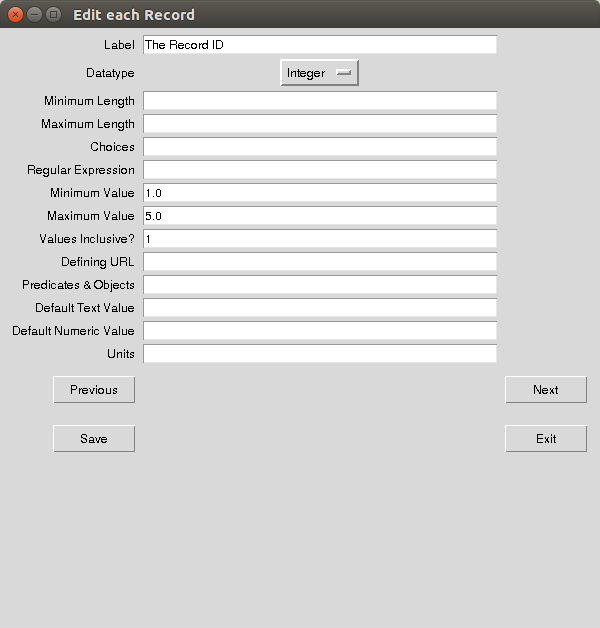
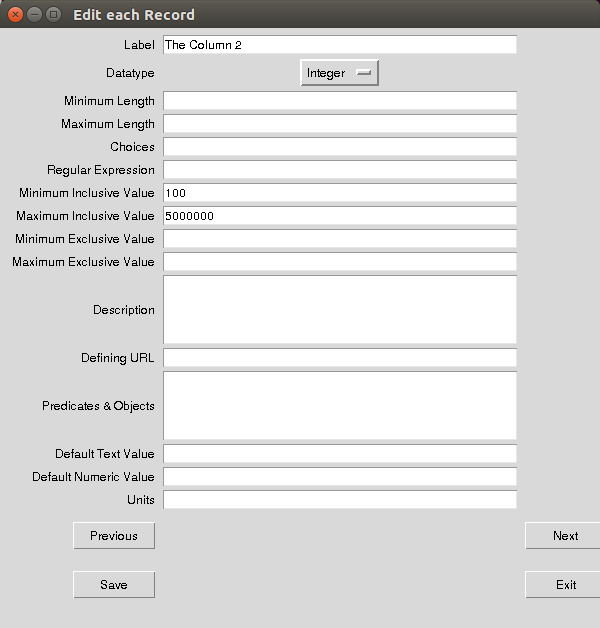
Add min/max exclusive values. Add a Choices column to Demo. Add description to schema s documentation.

diff --git a/docs/searchindex.js b/docs/searchindex.js
@@ -1,1 +1,1 @@
-Search.setIndex({docnames:["configure","develop","future","index","intro","license","pima","start","tutorials"],envversion:51,filenames:["configure.rst","develop.rst","future.rst","index.rst","intro.rst","license.rst","pima.rst","start.rst","tutorials.rst"],objects:{},objnames:{},objtypes:{},terms:{"200px":[],"600px":[],"\u02c8k\u00e4n\u02ccteksto":4,"case":[0,7],"default":[0,4,7],"function":7,"import":[4,7],"new":[2,3,7],"public":[0,1],"true":0,"while":7,Adding:3,But:7,For:[1,7],Not:0,The:[0,3,4,6,7,8],Then:[0,4,7],There:[0,2,4,7],These:[0,2,4,7],Use:[4,7],Using:3,With:7,_imag:[],abbrev:0,abbrevi:[0,7],abil:[2,4,7],about:[2,4,7],abov:[0,4],access:2,accord:[2,4,7],accur:7,activ:[0,2,4,7],actual:7,add:7,addit:[0,3,8],addtion:4,adid:[],adjust:[],admin:0,after:[0,4,7,8],again:7,age:2,agre:5,algorithm:7,align:[],all:[2,3,7],allegrograph:0,allow:[0,7],along:[4,7],alreadi:7,also:[0,4,7],alt:[],altern:7,altlabel:7,alwai:0,anaconda:3,analysi:[2,4,7],analyt:7,analyz:7,analyzelevel:0,ani:[0,2,4,5,7],annot:4,anoth:[],anywher:2,apach:5,appli:[],applic:[0,2,4,5],approach:[2,4,7],appropri:[0,2,7],archiv:[4,7],area:7,aren:7,around:4,artifici:4,assum:7,attempt:7,audienc:3,authent:0,author:7,autom:4,automat:[4,7],avail:[0,7],avoid:4,awai:7,back:2,background:4,backup:0,bad:[],bad_column_nam:7,bad_delim:[],bartoc:7,base:[2,4,7],basex:0,basexcli:5,basi:[5,7],basic:[],becaus:[2,4,7],becom:7,been:7,befor:7,begin:[2,4],being:[2,7],below:[0,4,5,7],benefit:4,best:4,better:7,between:[2,7],big:[2,7],biontolog:[0,7],bit:4,blank:7,blazegraph:0,blue:7,both:7,bottom:[],box:7,bridg:[2,7],brief:4,brows:[],browser:4,browsser:4,bsd:5,build:2,builtin:7,button:7,cach:4,call:4,can:[0,1,2,4,6,7,8],capabl:[4,7],captur:2,care:7,catalog:[4,7],caus:7,center:[],central:7,centric:[2,4],certain:[2,7],certainli:0,chang:[2,4,7],charact:7,choic:7,choos:[0,7],chosen:7,clean:[2,4],click:[],close:[2,7],cmd:[],code:[2,3,7],colon:0,column:7,column_1:7,com:7,combin:7,come:[1,4,7],comma:7,command:7,commandlin:[0,4,7],compani:4,competitor:4,complet:[4,7],complex:2,complianc:5,compliant:7,compon:5,comput:[3,4,7],concept:7,concern:7,conda:4,condit:5,conf:[0,4,7],config:[3,7],configur:[3,4,7],conjunt:4,constrain:7,constraint:7,construct:4,consum:7,contact:[1,2],contain:7,content:3,context:[2,3,4],continu:7,contribut:[1,7],contributor:[],cool:4,copi:[0,3,4,5,6,8],copyright:[3,4,5,7],core:[2,4,7],correct:7,cost:2,couchdb:0,could:7,count:7,cours:7,cover:[0,4,7],creat:[0,4,7],creation:7,creator:[],cross:3,crowd:4,csv:[4,6,7,8],current:[0,2,7],currrent:2,cycl:7,data:[0,2,3,4,5,6,8],databas:[2,4,6,7,8],datacentr:4,datafil:7,dataid:[],datainsight:7,datamodel:7,dataset:[3,7],datatyp:7,date:7,datetim:7,dbname:0,dct:7,decid:2,decim:7,decis:[2,4,7],declar:7,deep:4,def_num_valu:[],def_txt_valu:[],defin:[0,7],definit:7,definition_url:[],delet:7,delim:[0,7],delimit:[0,7],demo2:7,demo2_validation_log:7,demo3:7,demo:[0,3,4,8],demo_info:7,demo_validation_log:7,demo_with_semant:[4,7],demonstr:7,depend:4,depict:7,deriv:7,describ:7,descript:[4,7],descriptioin:7,design:[0,4],desir:7,detail:[3,4,6,7,8],determin:[0,7],develop:[3,7],devour:4,diabet:[3,6,7],dialog:7,dictionari:[6,7,8],didn:7,differ:[0,5,7],dir:4,direct:[2,4],directori:[0,3,6,7,8],discov:4,discoveri:7,discuss:4,displai:4,distribut:[5,7],dmid:[],doc:[],document:[4,7],doe:[2,7],domain:[2,4,7],door:4,down:2,download:4,due:[2,7],dul:[0,7],dynam:7,each:[0,7],easi:[0,4],easier:[],easili:4,eco:7,edit:[0,7],editor:[0,7],effort:[2,7],either:[0,2,4,5],elbor:7,element:7,emerg:4,enabl:4,encourag:0,encyclodpedia:7,engin:[2,4],enhanc:[4,7],ensur:7,enter:7,enterpris:2,entir:7,entri:[0,7],entryid:[],environ:[4,7],erron:7,error:7,esperanto:[3,4],est:4,establish:2,etc:4,evalu:2,even:7,exactli:7,exampl:[0,4,7],example_data:[4,6,7,8],except:5,exclud:2,exe:[],execut:7,exist:[2,4],existdb:0,exit:7,expand:7,expect:[1,7],expert:[4,7],explain:4,exploit:7,explor:7,express:[5,7],extract:[4,7],fact:7,fake:7,fals:0,far:7,favorit:[0,4],few:7,field:[0,4,7],file:[3,5,6,7,8],filemanag:7,filenotfound:[],filesystem:[0,7],filetyp:0,fill:[6,7,8],find:4,fine:7,finish:7,first:[0,3,4],fit:2,fix:[],flag:7,foaf:7,follow:[4,7],footnot:4,formal:7,format:[0,4,7],forward:2,found:[4,6,7,8],foundat:[2,4],four:[4,7],free:[0,7],from:[0,2,4,7],full:[0,2,7],further:7,futur:[0,3,4,7],gain:[4,7],gather:7,gener:[0,1,4,7],get:[3,8],github:1,given:7,glanc:7,going:7,govern:5,graphdb:0,grasp:7,great:0,grootel:5,group:4,grow:7,guess:7,guid:1,guidelin:3,had:[],hand:4,handl:7,happen:[2,7],has:[0,2,7],have:[2,4,7],header:7,height:[],help:[1,7],here:[0,4,7],hiroaki:5,holder:7,host:0,how:[2,4],howev:[0,4,7],http:[0,5,7],imag:7,implement:0,impli:5,improv:[2,4,7],inact:0,inc:[2,3,5,7],includ:[2,5,6,7,8],inclus:7,incomplet:[6,8],incorrect:7,index:3,indian:[3,6,7],individu:5,inform:[2,3,4,6,8],ingest:2,initi:0,input:7,insid:2,insight:[2,3,5,7],instal:[0,3,7],instanc:7,instead:0,instruct:4,insur:[],integ:7,integr:4,intellig:4,interoper:[3,4],introduct:3,invalid:7,involv:2,irvin:[6,8],isdefinedbi:7,issettingfor:7,issu:[2,4,7],item:[0,7],itoh:5,json:[0,7],just:[4,7],kdnugget:7,kind:[2,5],knowledg:[4,7],known:2,kunteksto:[0,2,4,7],label:7,lack:7,languag:[4,5,7],larger:[],last:4,later:4,law:5,lead:2,learn:[4,6,7,8],least:7,length:7,libreoffic:0,licens:[3,4],like:[1,2,4,7],limit:[2,4,5],line:[4,7],link:[0,4,7],linux:[3,7],list:7,littl:4,load:7,local:[0,7],localhost:0,locat:4,lock:2,log:7,look:[2,7],loos:7,lxml:4,mac:3,machin:[2,6,8],macosx:[4,7],mai:[0,2,4,5,6,7,8],make:[0,2,7],manag:[1,2,4],mandatori:7,mani:[0,2,4,7],manifesto:4,manual:7,marc:5,massag:[2,4],match:7,matur:7,max_len:[],max_val:[],maximum:7,mcid:[],mean:7,meaning:7,measur:7,meet:7,menu:4,messag:7,metadata:7,might:7,min_len:[],min_val:[],minimum:7,minut:4,miss:7,mix:7,mode:7,model:[0,2,4,6,7,8],modul:3,monei:2,mongodb:0,more:[2,3,4],most:[0,7],movement:4,much:7,multipl:3,must:[0,7],name:[0,6,7,8],namespac:[0,7],nan:7,navig:[4,7],need:7,next:7,nlt:1,note:[0,7],notic:[4,7],now:[2,4,7],number:[4,7],numer:7,object:7,obtain:[5,7],offer:2,often:[2,7],okai:0,onc:[4,7],one:[0,4,7],onli:[0,2,7],onlin:7,ont:0,ontolog:[0,4,7],ontologydesignpattern:0,open:[0,1,4,7],opensourc:0,oper:[4,7],oppos:[4,7],option:[0,4,7],order:7,org:[0,5,7],organ:[1,7],origin:[2,4,6,8],osx:3,other:[0,2,6,7,8],otherwis:7,our:7,outdir:0,output:[0,4,7],overal:7,overarch:7,overrid:0,overridden:0,owl:[0,4,7],own:0,page:3,pair:7,paradigm:2,park:4,part:4,path:[4,7],pattern:0,pdf:7,per:7,perform:[2,7,8],period:7,permiss:5,pima:[3,6,7],pip:4,pipe:7,pipelin:7,place:[4,7],plan:0,platform:3,pleas:1,png:[],point:7,pointless:7,popular:7,port:0,portion:7,possibl:[2,7],power:4,pre:7,pred_obj_list:[],predic:7,prefer:4,prefil:7,prepar:2,previou:7,privat:1,problem:7,proce:7,process:[0,2,4,7],produc:7,program:4,project:[0,1,7],prompt:[4,7],provid:[4,7],pulldown:7,purl:7,purpleknob:7,purport:7,purpos:3,put:[],pycurl:4,python:4,qualiti:[2,3,4,7],queri:[2,4],quick:4,quickli:4,quot:[],rang:7,rdf:[0,4,7],readi:4,readm:4,realist:7,realiz:7,realworld:7,reason:[],receiv:7,recommend:[],record:[6,7,8],refer:[4,7],referenc:4,regex:[],regular:7,rel:0,reliabl:7,reopen:7,repo:[0,1],repositori:[0,1,6,7,8],repres:7,represent:4,request:7,requir:[0,2,3,5,7],rerun:7,research:4,reserv:3,resolut:[],resourc:7,rest:4,restart:7,restrict:7,result:7,reus:7,reusabl:2,revolut:4,rich:3,richer:7,right:3,robust:7,round:2,rule:2,run:7,s3m:7,s3m_test:0,s3model:[2,4,7],s3model_3_0_0:[4,7],sai:7,same:[3,4],sampl:4,save:[2,7],scenario:7,schema:[4,7],scienc:7,scientist:[2,4],screenshot:7,search:[3,7],section:[0,7],see:[1,4,5,7],select:7,semannt:7,semant:[0,3,4],separ:[0,7],set:[0,4,7],settl:4,setup:0,sever:[4,7],shacl:7,shape:7,share:7,should:[0,7],show:[0,7],shown:[0,4],side:[],simpl:[0,4,7],simpler:7,simplifi:4,simul:7,sioc:7,situtaion:7,sko:7,slightli:7,slow:2,softwar:5,some:[0,2,5,7],soon:[1,4],sophist:7,sourc:[0,1,2,4,6,7,8],space:[0,7],sparql:2,specif:[2,5],spend:2,spot:7,spreadsheet:7,sqlite:[],sqlitebrows:4,squar:2,standard:[2,7],stardog:0,stare:7,start:[3,8],statu:0,step:[3,4],still:1,string:7,structur:[2,7],studi:7,stuff:4,stylesheet:4,subdirectoi:4,subdirectori:[0,4,7],subject:7,sublim:0,suppli:7,support:[0,4,7],sure:7,syntax:7,system:[0,2,4,7],tab:[],tabl:[6,7,8],take:4,target:3,tech:7,technolog:7,tell:[],term:7,termin:4,text:[0,7],thei:[2,7],them:[4,7],thi:[1,2,3,4,5,6,8],thingi:7,those:[4,7],though:7,thousand:7,three:0,through:[4,7],throughout:7,time:[2,4,6,7,8],titl:7,todai:7,tool:[2,4,7],toolbar:[],top:7,toward:7,traction:4,transit:2,translat:[4,7],tripl:7,turn:3,tutori:[0,3,4,6],two:7,txt:4,type:[0,7],typic:0,ujson:4,under:[0,5,7],understand:4,understood:2,underwai:2,unifi:7,uniqu:7,unit:7,unknow:2,unknown:2,unless:5,updat:[3,5],upgrad:4,upon:[],uri:[0,7],url:7,usabl:[4,7],usag:[3,7],use:[0,2,4,5,7],used:[0,2,4,7],useful:[6,7,8],user:0,uses:[0,7],using:[2,4,7],usual:[2,4],util:7,uuid:[4,7],valid:[2,4,7],vals_inclus:[],valu:[0,7],van:5,vari:4,variat:[],variou:[0,7],veri:4,version:[0,3,5,7],via:[4,7],video:7,view:7,virtual:[4,7],virtualenv:4,visual:4,vocabulari:[0,7],volunt:1,wai:[2,4],want:[0,4,7],warn:[],warranti:5,webpag:7,well:[0,2,7],were:7,what:[0,3,7],when:[0,2,4,7],where:[0,2,4,7],wherea:7,which:7,why:3,widget:7,width:[],wikipedia:4,window:[3,7],wing:[],wish:7,without:[2,5,7],won:4,word:[0,2],wordprocess:0,world:[2,4],would:[1,2,7],write:[0,5],written:[0,7],wrong:2,www:[0,5,7],xml:[0,4,7],xmln:7,xmlschema:7,xsd:[4,7],xsi:7,xsl:4,yes:7,yet:[0,7],you:[0,1,4,5,7],your:[0,4,7],zip:[4,7]},titles:["Configuration","Developing Kunteksto","The Future","Kunteksto","Introduction and Installation","License &amp; Usage","&lt;no title&gt;","Getting Started","Tutorials"],titleterms:{"new":4,Adding:7,The:2,Using:7,addit:7,all:4,anaconda:4,audienc:4,code:1,comput:2,config:0,configur:0,copi:7,cross:4,data:7,dataset:8,demo:7,detail:0,develop:1,diabet:8,directori:4,file:[0,4],first:7,futur:2,get:7,guidelin:1,indian:8,indic:3,inform:7,instal:4,interoper:2,introduct:4,kunteksto:[1,3],licens:5,linux:4,mac:4,more:7,multipl:7,osx:4,pima:8,platform:4,purpos:4,qualiti:1,requir:4,rich:7,same:7,semant:[2,7],start:7,step:7,tabl:3,target:4,thi:7,tutori:[7,8],updat:4,usag:5,version:4,what:[2,4],why:7,window:4}})
+Search.setIndex({docnames:["configure","develop","future","index","intro","license","pima","start","tutorials"],envversion:51,filenames:["configure.rst","develop.rst","future.rst","index.rst","intro.rst","license.rst","pima.rst","start.rst","tutorials.rst"],objects:{},objnames:{},objtypes:{},terms:{"200px":[],"600px":[],"\u02c8k\u00e4n\u02ccteksto":4,"case":[0,7],"default":[0,4,7],"function":7,"import":[4,7],"new":[2,3,7],"public":[0,1],"true":0,"while":7,Adding:3,But:7,For:[1,7],Not:0,The:[0,3,4,6,7,8],Then:[0,4,7],There:[0,2,4,7],These:[0,2,4,7],Use:[4,7],Using:3,With:7,_imag:[],abbrev:0,abbrevi:[0,7],abil:[2,4,7],about:[2,4,7],abov:[0,4],access:2,accord:[2,4,7],accur:7,activ:[0,2,4,7],actual:7,add:7,addit:[0,3,8],addtion:4,adid:[],adjust:[],admin:0,after:[0,4,7,8],again:7,age:2,agre:5,algorithm:7,align:[],all:[2,3,7],allegrograph:0,allow:[0,7],along:[4,7],alreadi:7,also:[0,4,7],alt:[],altern:7,altlabel:7,alwai:0,anaconda:3,analysi:[2,4,7],analyt:7,analyz:7,analyzelevel:0,ani:[0,2,4,5,7],annot:4,anoth:[],anywher:2,apach:5,appli:[],applic:[0,2,4,5],approach:[2,4,7],appropri:[0,2,7],archiv:[4,7],area:7,aren:7,around:4,artifici:4,assum:7,attempt:7,audienc:3,authent:0,author:7,autom:4,automat:[4,7],avail:[0,7],avoid:4,awai:7,back:2,background:4,backup:0,bad:[],bad_column_nam:7,bad_delim:[],bartoc:7,base:[2,4,7],basex:0,basexcli:5,basi:[5,7],basic:[],becaus:[2,4,7],becom:7,been:7,befor:7,begin:[2,4],being:[2,7],below:[0,4,5,7],benefit:4,best:4,better:7,between:[2,7],big:[2,7],biontolog:[0,7],bit:4,blank:7,blazegraph:0,blue:7,both:7,bottom:[],box:7,bridg:[2,7],brief:4,brows:[],browser:4,browsser:4,bsd:5,build:2,builtin:7,button:7,cach:4,call:4,can:[0,1,2,4,6,7,8],capabl:[4,7],captur:2,care:7,catalog:[4,7],caus:7,center:[],central:7,centric:[2,4],certain:[2,7],certainli:0,chang:[2,4,7],charact:7,choic:7,choos:[0,7],chosen:7,clean:[2,4],click:[],close:[2,7],cmd:[],code:[2,3,7],colon:0,column:7,column_1:7,com:7,combin:7,come:[1,4,7],comma:7,command:7,commandlin:[0,4,7],compani:4,competitor:4,complet:[4,7],complex:2,complianc:5,compliant:7,compon:5,comput:[3,4,7],concept:7,concern:7,conda:4,condit:5,conf:[0,4,7],config:[3,7],configur:[3,4,7],conjunt:4,constrain:7,constraint:7,construct:4,consum:7,contact:[1,2],contain:7,content:3,context:[2,3,4],continu:7,contribut:[1,7],contributor:[],cool:4,copi:[0,3,4,5,6,8],copyright:[3,4,5,7],core:[2,4,7],correct:7,cost:2,couchdb:0,could:7,count:7,cours:7,cover:[0,4,7],creat:[0,4,7],creation:7,creator:[],cross:3,crowd:4,csv:[4,6,7,8],current:[0,2,7],currrent:2,cycl:7,data:[0,2,3,4,5,6,8],databas:[2,4,6,7,8],datacentr:4,datafil:7,dataid:[],datainsight:7,datamodel:7,dataset:[3,7],datatyp:7,date:7,datetim:7,dbname:0,dct:7,decid:2,decim:7,decis:[2,4,7],declar:7,deep:4,def_num_valu:[],def_txt_valu:[],defin:[0,7],definit:7,definition_url:[],delet:7,delim:[0,7],delimit:[0,7],demo2:7,demo2_validation_log:7,demo3:7,demo:[0,3,4,8],demo_info:7,demo_validation_log:7,demo_with_semant:[4,7],demonstr:7,depend:4,depict:7,deriv:7,describ:7,descript:[4,7],descriptioin:7,design:[0,4],desir:7,detail:[3,4,6,7,8],determin:[0,7],develop:[3,7],devour:4,diabet:[3,6,7],dialog:7,dictionari:[6,7,8],didn:7,differ:[0,5,7],dir:4,direct:[2,4],directori:[0,3,6,7,8],discov:4,discoveri:7,discuss:4,displai:4,distribut:[5,7],dmid:[],doc:[],document:[4,7],doe:[2,7],domain:[2,4,7],door:4,down:2,download:4,due:[2,7],dul:[0,7],dynam:7,each:[0,7],easi:[0,4],easier:[],easili:4,eco:7,edit:[0,7],editor:[0,7],effort:[2,7],either:[0,2,4,5],elbor:7,element:7,emerg:4,enabl:4,encourag:0,encyclodpedia:7,engin:[2,4],enhanc:[4,7],ensur:7,enter:7,enterpris:2,entir:7,entri:[0,7],entryid:[],environ:[4,7],erron:7,error:7,esperanto:[3,4],est:4,establish:2,etc:4,evalu:2,even:7,exactli:7,exampl:[0,4,7],example_data:[4,6,7,8],except:5,exclud:2,exclus:7,exe:[],execut:7,exist:[2,4],existdb:0,exit:7,expand:7,expect:[1,7],expert:[4,7],explain:4,exploit:7,explor:7,express:[5,7],extract:[4,7],fact:7,fake:7,fals:0,far:7,favorit:[0,4],few:7,field:[0,4,7],file:[3,5,6,7,8],filemanag:7,filenotfound:[],filesystem:[0,7],filetyp:0,fill:[6,7,8],find:4,fine:7,finish:7,first:[0,3,4],fit:2,fix:[],flag:7,foaf:7,follow:[4,7],footnot:4,formal:7,format:[0,4,7],forward:2,found:[4,6,7,8],foundat:[2,4],four:[4,7],free:[0,7],from:[0,2,4,7],full:[0,2,7],further:7,futur:[0,3,4,7],gain:[4,7],gather:7,gener:[0,1,4,7],get:[3,8],github:1,given:7,glanc:7,going:7,govern:5,graphdb:0,grasp:7,great:0,grootel:5,group:4,grow:7,guess:7,guid:1,guidelin:3,had:[],hand:4,handl:7,happen:[2,7],has:[0,2,7],have:[2,4,7],header:7,height:[],help:[1,7],here:[0,4,7],hiroaki:5,holder:7,host:0,how:[2,4],howev:[0,4,7],http:[0,5,7],human:7,ignor:7,illog:7,imag:7,implement:0,impli:5,improv:[2,4,7],inact:0,inc:[2,3,5,7],includ:[2,5,6,7,8],inclus:7,incomplet:[6,8],incorrect:7,index:3,indian:[3,6,7],individu:5,inform:[2,3,4,6,8],ingest:2,initi:0,input:7,insid:2,insight:[2,3,5,7],instal:[0,3,7],instanc:7,instead:0,instruct:4,insur:[],integ:7,integr:4,intellig:4,interoper:[3,4],introduct:3,invalid:7,involv:2,irvin:[6,8],isdefinedbi:7,issettingfor:7,issu:[2,4,7],item:[0,7],itoh:5,json:[0,7],just:[4,7],kdnugget:7,kind:[2,5],knowledg:[4,7],known:2,kunteksto:[0,2,4,7],label:7,lack:7,languag:[4,5,7],larger:[],last:4,later:4,law:5,lead:2,learn:[4,6,7,8],least:7,length:7,libreoffic:0,licens:[3,4],like:[1,2,4,7],limit:[2,4,5],line:[4,7],link:[0,4,7],linux:[3,7],list:7,littl:4,load:7,local:[0,7],localhost:0,locat:4,lock:2,log:7,look:[2,7],loos:7,lxml:4,mac:3,machin:[2,6,8],macosx:[4,7],mai:[0,2,4,5,6,7,8],make:[0,2,7],manag:[1,2,4],mandatori:7,mani:[0,2,4,7],manifesto:4,manner:7,manual:7,marc:5,massag:[2,4],match:7,matur:7,max:7,max_len:[],max_val:[],maximum:7,mcid:[],mean:7,meaning:7,measur:7,meet:7,menu:4,messag:7,metadata:7,might:7,min:7,min_len:[],min_val:[],minimum:7,minut:4,miss:7,mix:7,mode:7,model:[0,2,4,6,7,8],modul:3,monei:2,mongodb:0,more:[2,3,4],most:[0,7],movement:4,much:7,multipl:3,must:[0,7],name:[0,6,7,8],namespac:[0,7],nan:7,navig:[4,7],need:7,next:7,nlt:1,note:[0,7],notic:[4,7],now:[2,4,7],number:[4,7],numer:7,object:7,obtain:[5,7],offer:2,often:[2,7],okai:0,onc:[4,7],one:[0,4,7],onli:[0,2,7],onlin:7,ont:0,ontolog:[0,4,7],ontologydesignpattern:0,open:[0,1,4,7],opensourc:0,oper:[4,7],oppos:[4,7],option:[0,4,7],order:7,org:[0,5,7],organ:[1,7],origin:[2,4,6,8],osx:3,other:[0,2,6,7,8],otherwis:7,our:7,outdir:0,output:[0,4,7],overal:7,overarch:7,overrid:0,overridden:0,owl:[0,4,7],own:0,page:3,pair:7,paradigm:2,park:4,part:4,path:[4,7],pattern:0,pdf:7,per:7,perform:[2,7,8],period:7,permiss:5,pima:[3,6,7],pip:4,pipe:7,pipelin:7,place:[4,7],plan:0,platform:3,pleas:1,png:[],point:7,pointless:7,popular:7,port:0,portion:7,possibl:[2,7],power:4,pre:7,pred_obj_list:[],predic:7,prefer:4,prefil:7,prepar:2,previou:7,privat:1,problem:7,proce:7,process:[0,2,4,7],produc:7,program:4,project:[0,1,7],prompt:[4,7],provid:[4,7],pulldown:7,purl:7,purpleknob:7,purport:7,purpos:3,put:[],pycurl:4,python:4,qualiti:[2,3,4,7],queri:[2,4],quick:4,quickli:4,quot:[],rang:[],rdf:[0,4,7],readabl:7,readi:4,readm:4,realist:7,realiz:7,realworld:7,reason:[],receiv:7,recommend:[],record:[6,7,8],refer:[4,7],referenc:4,regex:[],regular:7,rel:0,reliabl:7,reopen:7,repo:[0,1],repositori:[0,1,6,7,8],repres:7,represent:4,request:7,requir:[0,2,3,5,7],rerun:7,research:4,reserv:3,resolut:[],resourc:7,rest:4,restart:7,restrict:7,result:7,reus:7,reusabl:2,revolut:4,rich:3,richer:7,right:3,robust:7,round:2,rule:2,run:7,s3m:7,s3m_test:0,s3model:[2,4,7],s3model_3_0_0:[4,7],sai:7,same:[3,4],sampl:4,save:[2,7],scenario:7,schema:[4,7],scienc:7,scientist:[2,4],screenshot:7,search:[3,7],section:[0,7],see:[1,4,5,7],select:7,semannt:7,semant:[0,3,4],separ:[0,7],set:[0,4,7],settl:4,setup:0,sever:[4,7],shacl:7,shape:7,share:7,should:[0,7],show:[0,7],shown:[0,4],side:[],simpl:[0,4,7],simpler:7,simplifi:4,simul:7,sioc:7,situtaion:7,sko:7,slightli:7,slow:2,softwar:5,some:[0,2,5,7],soon:[1,4],sophist:7,sourc:[0,1,2,4,6,7,8],space:[0,7],sparql:2,specif:[2,5],spend:2,spot:7,spreadsheet:7,sqlite:[],sqlitebrows:4,squar:2,standard:[2,7],stardog:0,stare:7,start:[3,8],statu:0,step:[3,4],still:1,string:7,structur:[2,7],studi:7,stuff:4,stylesheet:4,subdirectoi:4,subdirectori:[0,4,7],subject:7,sublim:0,suppli:7,support:[0,4,7],sure:7,syntax:7,system:[0,2,4,7],tab:[],tabl:[6,7,8],take:[4,7],target:3,tech:7,technolog:7,tell:[],term:7,termin:4,text:[0,7],textual:7,thei:[2,7],them:[4,7],thi:[1,2,3,4,5,6,8],thingi:7,those:[4,7],though:7,thousand:7,three:0,through:[4,7],throughout:7,time:[2,4,6,7,8],titl:7,todai:7,tool:[2,4,7],toolbar:[],top:7,toward:7,traction:4,transit:2,translat:[4,7],tripl:7,turn:3,tutori:[0,3,4,6],two:7,txt:4,type:[0,7],typic:0,ujson:4,under:[0,5,7],understand:4,understood:2,underwai:2,unifi:7,uniqu:7,unit:7,unknow:2,unknown:2,unless:5,updat:[3,5],upgrad:4,upon:[],uri:[0,7],url:7,usabl:[4,7],usag:[3,7],use:[0,2,4,5,7],used:[0,2,4,7],useful:[6,7,8],user:0,uses:[0,7],using:[2,4,7],usual:[2,4],util:7,uuid:[4,7],valid:[2,4,7],vals_inclus:[],valu:[0,7],van:5,vari:4,variat:[],variou:[0,7],veri:4,version:[0,3,5,7],via:[4,7],video:7,view:7,virtual:[4,7],virtualenv:4,visual:4,vocabulari:[0,7],volunt:1,wai:[2,4],want:[0,4,7],warn:[],warranti:5,webpag:7,well:[0,2,7],were:7,what:[0,3,7],when:[0,2,4,7],where:[0,2,4,7],wherea:7,which:7,why:3,widget:7,width:[],wikipedia:4,window:[3,7],wing:[],wish:7,without:[2,5,7],won:4,word:[0,2],wordprocess:0,world:[2,4],would:[1,2,7],write:[0,5],written:[0,7],wrong:2,www:[0,5,7],xml:[0,4,7],xmln:7,xmlschema:7,xsd:[4,7],xsi:7,xsl:4,yes:[],yet:[0,7],you:[0,1,4,5,7],your:[0,4,7],zip:[4,7]},titles:["Configuration","Developing Kunteksto","The Future","Kunteksto","Introduction and Installation","License &amp; Usage","&lt;no title&gt;","Getting Started","Tutorials"],titleterms:{"new":4,Adding:7,The:2,Using:7,addit:7,all:4,anaconda:4,audienc:4,code:1,comput:2,config:0,configur:0,copi:7,cross:4,data:7,dataset:8,demo:7,detail:0,develop:1,diabet:8,directori:4,file:[0,4],first:7,futur:2,get:7,guidelin:1,indian:8,indic:3,inform:7,instal:4,interoper:2,introduct:4,kunteksto:[1,3],licens:5,linux:4,mac:4,more:7,multipl:7,osx:4,pima:8,platform:4,purpos:4,qualiti:1,requir:4,rich:7,same:7,semant:[2,7],start:7,step:7,tabl:3,target:4,thi:7,tutori:[7,8],updat:4,usag:5,version:4,what:[2,4],why:7,window:4}})

diff --git a/docs/start.html b/docs/start.html
@@ -296,15 +296,20 @@ You can see all of the Kunteksto commandline options using the &#8211;help flag.
 <blockquote>
 <div><div class="admonition warning">
 <p class="first admonition-title">Warning</p>
-<p class="last">The decimal separator throughout Kunteksto is a period, do not use a comma. Do not use thousands separators.</p>
+<p class="last">The decimal separator throughout Kunteksto is a period, do not use a comma. Do not use thousands separators.
+Also, if you mix min/max inclusive or exclusive in an illogical manner, they system will take the inclusive value and ignore the exclusive value.</p>
 </div>
 </div></blockquote>
 </li>
-<li><p class="first"><em>Minimum Value</em> enter the minimum value restriction for <strong>Integer or Decimal</strong> columns.</p>
+<li><p class="first"><em>Minimum Inclusive Value</em> enter the minimum inclusive value restriction for <strong>Integer or Decimal</strong> columns.</p>
 </li>
-<li><p class="first"><em>Maximum Value</em> enter the maximum value restriction for <strong>Integer or Decimal</strong> columns.</p>
+<li><p class="first"><em>Maximum Inclusive Value</em> enter the maximum inclusive value restriction for <strong>Integer or Decimal</strong> columns.</p>
 </li>
-<li><p class="first"><em>Values Inclusive?</em> for <strong>Integer or Decimal</strong> columns, are the minimum and maximum values inclusive in the valid values range. Enter a &#8216;1&#8217; for yes or a &#8216;0&#8217; for no.</p>
+<li><p class="first"><em>Minimum Exclusive Value</em> enter the minimum exclusive value restriction for <strong>Integer or Decimal</strong> columns.</p>
+</li>
+<li><p class="first"><em>Maximum Exclusive Value</em> enter the maximum exclusive value restriction for <strong>Integer or Decimal</strong> columns.</p>
+</li>
+<li><p class="first"><em>Description</em> for all columns enter a textual description that might be used for human readable documentation.</p>
 </li>
 <li><p class="first"><em>Defining URL</em> enter a URL (or at least a URI) to a vocabulary or ontology or a webpage that describes or defines the meaning of the data in this column.</p>
 </li>
@@ -461,7 +466,7 @@ Some references to get you started:</p>
   <div role="contentinfo">
     <p>
         &copy; Copyright 2017, Data Insights, Inc..
-      Last updated on 2017-10-02 20:04.
+      Last updated on 2017-10-03 09:16.
 
     </p>
   </div> 

diff --git a/docs/genindex.html b/docs/genindex.html
@@ -184,7 +184,7 @@
   <div role="contentinfo">
     <p>
         &copy; Copyright 2017, Data Insights, Inc..
-      Last updated on 2017-10-02 20:04.
+      Last updated on 2017-10-03 09:16.
 
     </p>
   </div> 

diff --git a/docs/index.html b/docs/index.html
@@ -259,7 +259,7 @@
   <div role="contentinfo">
     <p>
         &copy; Copyright 2017, Data Insights, Inc..
-      Last updated on 2017-10-02 20:04.
+      Last updated on 2017-10-03 09:16.
 
     </p>
   </div> 

diff --git a/docs/search.html b/docs/search.html
@@ -187,7 +187,7 @@
   <div role="contentinfo">
     <p>
         &copy; Copyright 2017, Data Insights, Inc..
-      Last updated on 2017-10-02 20:04.
+      Last updated on 2017-10-03 09:16.
 
     </p>
   </div> 

diff --git a/kunteksto/generate.py b/kunteksto/generate.py
@@ -123,9 +123,12 @@ def xdcount_rdf(data):
     
     if data[7]:
         rdfStr += padding.rjust(indent + 10) +'<sh:minInclusive rdf:datatype="http://www.w3.org/2001/XMLSchema#integer">' + data[7].strip() + '</sh:minInclusive>\n'
+    elif data[17]:
+        rdfStr += padding.rjust(indent + 10) +'<sh:minExclusive rdf:datatype="http://www.w3.org/2001/XMLSchema#integer">' + data[17].strip() + '</sh:minExclusive>\n'
     if data[8]:
         rdfStr += padding.rjust(indent + 10) +'<sh:maxInclusive rdf:datatype="http://www.w3.org/2001/XMLSchema#integer">' + data[8].strip() + '</sh:maxInclusive>\n'    
-    
+    elif data[18]:
+        rdfStr += padding.rjust(indent + 10) +'<sh:maxExclusive rdf:datatype="http://www.w3.org/2001/XMLSchema#integer">' + data[18].strip() + '</sh:maxExclusive>\n'    
     rdfStr += padding.rjust(indent + 8) +'</rdf:Description>\n'
     rdfStr += padding.rjust(indent + 6) +'</sh:property>\n'
     
@@ -160,7 +163,7 @@ def xdcount(data):
     xdstr += padding.rjust(indent) + '<xs:complexType name="mc-' + mcID + '">\n'
     xdstr += padding.rjust(indent + 2) + '<xs:annotation>\n'
     xdstr += padding.rjust(indent + 4) + '<xs:documentation>\n'
-    xdstr += padding.rjust(indent + 6) + 'This is the Count model component used to model integers.\n'
+    xdstr += padding.rjust(indent + 6) + data[9].strip() + '\n'
     xdstr += padding.rjust(indent + 4) + '</xs:documentation>\n'
     xdstr += padding.rjust(indent + 4) + '<xs:appinfo>\n'   
     # add the RDF
@@ -179,7 +182,7 @@ def xdcount(data):
     xdstr += padding.rjust(indent + 8) + '<xs:element maxOccurs="1" minOccurs="0" name="magnitude-status" type="s3m:MagnitudeStatus"/>\n'
     xdstr += padding.rjust(indent + 8) + '<xs:element maxOccurs="1" minOccurs="1" name="error"  type="xs:int" default="0"/>\n'
     xdstr += padding.rjust(indent + 8) + '<xs:element maxOccurs="1" minOccurs="1" name="accuracy" type="xs:int" default="0"/>\n'
-    if not data[7] and not data[8] and not data[13]:
+    if not data[7] and not data[8] and not data[17] and not data [18] and not data[13]:
         xdstr += padding.rjust(indent + 8) + '<xs:element maxOccurs="1" minOccurs="1"  name="xdcount-value" type="xs:int"/>\n'
     if data[13]:
         xdstr += padding.rjust(indent + 8) +  '<xs:element maxOccurs="1" minOccurs="1"  name="xdcount-value" type="xs:int" default="' + str(int(data[13])) + '"/>\n'       
@@ -189,8 +192,14 @@ def xdcount(data):
         xdstr += padding.rjust(indent + 10) + '<xs:restriction base="xs:int">\n'
         if data[7]:
             xdstr += padding.rjust(indent + 12) + '<xs:minInclusive value="' + str(int(data[7])) + '"/>\n'
+        elif data[17]:
+            xdstr += padding.rjust(indent + 12) + '<xs:minExclusive value="' + str(int(data[17])) + '"/>\n'
+            
         if data[8]:
             xdstr += padding.rjust(indent + 12) + '<xs:maxInclusive value="' + str(int(data[8])) + '"/>\n'
+        elif data[18]:
+            xdstr += padding.rjust(indent + 12) + '<xs:maxExclusive value="' + str(int(data[18])) + '"/>\n'
+            
         xdstr += padding.rjust(indent + 10) + '</xs:restriction>\n'
         xdstr += padding.rjust(indent + 10) + '</xs:simpleType>\n'
         xdstr += padding.rjust(indent + 8) + '</xs:element>\n'
@@ -231,9 +240,14 @@ def xdquantity_rdf(data):
     rdfStr += padding.rjust(indent + 10) +'<sh:minCount rdf:datatype="http://www.w3.org/2001/XMLSchema#integer">1</sh:minCount>\n'
     
     if data[7]:
-        rdfStr += padding.rjust(indent + 10) +'<sh:minInclusive rdf:datatype="http://www.w3.org/2001/XMLSchema#integer">' + data[7].strip() + '</sh:minInclusive>\n'
+        rdfStr += padding.rjust(indent + 10) +'<sh:minInclusive rdf:datatype="http://www.w3.org/2001/XMLSchema#decimal">' + data[7].strip() + '</sh:minInclusive>\n'
+    elif data[17]:
+        rdfStr += padding.rjust(indent + 10) +'<sh:minExclusive rdf:datatype="http://www.w3.org/2001/XMLSchema#decimal">' + data[17].strip() + '</sh:minExclusive>\n'
+        
     if data[8]:
-        rdfStr += padding.rjust(indent + 10) +'<sh:maxInclusive rdf:datatype="http://www.w3.org/2001/XMLSchema#integer">' + data[8].strip() + '</sh:maxInclusive>\n'    
+        rdfStr += padding.rjust(indent + 10) +'<sh:maxInclusive rdf:datatype="http://www.w3.org/2001/XMLSchema#decimal">' + data[8].strip() + '</sh:maxInclusive>\n'    
+    elif data[18]:
+        rdfStr += padding.rjust(indent + 10) +'<sh:maxExclusive rdf:datatype="http://www.w3.org/2001/XMLSchema#decimal">' + data[18].strip() + '</sh:maxExclusive>\n'    
    
     rdfStr += padding.rjust(indent + 8) +'</rdf:Description>\n'
     rdfStr += padding.rjust(indent + 6) +'</sh:property>\n'
@@ -269,7 +283,7 @@ def xdquantity(data):
     xdstr += padding.rjust(indent) + '<xs:complexType name="mc-' + mcID + '">\n'
     xdstr += padding.rjust(indent + 2) + '<xs:annotation>\n'
     xdstr += padding.rjust(indent + 4) + '<xs:documentation>\n'
-    xdstr += padding.rjust(indent + 6) + 'This is the Quantity model component used to model decimals.\n'
+    xdstr += padding.rjust(indent + 6) + data[9].strip() + '\n'
     xdstr += padding.rjust(indent + 4) + '</xs:documentation>\n'
     xdstr += padding.rjust(indent + 4) + '<xs:appinfo>\n'
     # add the RDF
@@ -288,7 +302,7 @@ def xdquantity(data):
     xdstr += padding.rjust(indent + 8) + '<xs:element maxOccurs="1" minOccurs="0" name="magnitude-status" type="s3m:MagnitudeStatus"/>\n'
     xdstr += padding.rjust(indent + 8) + '<xs:element maxOccurs="1" minOccurs="1" name="error"  type="xs:int" default="0"/>\n'
     xdstr += padding.rjust(indent + 8) + '<xs:element maxOccurs="1" minOccurs="1" name="accuracy" type="xs:int" default="0"/>\n'
-    if not data[7] and not data[8] and not data[13]:
+    if not data[7] and not data[8] and not data[17] and not data[18] and not data[13]:
         xdstr += padding.rjust(indent + 8) + '<xs:element maxOccurs="1" minOccurs="1"  name="xdquantity-value" type="xs:decimal"/>\n'
     if data[13]:
         xdstr += padding.rjust(indent + 8) + '<xs:element maxOccurs="1" minOccurs="1"  name="xdquantity-value" type="xs:decimal" default="' + data[13].strip() + '"/>\n'
@@ -298,8 +312,12 @@ def xdquantity(data):
         xdstr += padding.rjust(indent + 10) + '<xs:restriction base="xs:decimal">\n'
         if data[7]:
             xdstr += padding.rjust(indent + 12) + '<xs:minInclusive value="' + data[7].strip() + '"/>\n'
+        elif data[17]:
+            xdstr += padding.rjust(indent + 12) + '<xs:minExclusive value="' + data[17].strip() + '"/>\n'
         if data[8]:
             xdstr += padding.rjust(indent + 12) + '<xs:maxInclusive value="' + data[8].strip() + '"/>\n'
+        elif data[18]:
+            xdstr += padding.rjust(indent + 12) + '<xs:maxExclusive value="' + data[18].strip() + '"/>\n'
                 
         xdstr += padding.rjust(indent + 10) + '</xs:restriction>\n'
         xdstr += padding.rjust(indent + 10) + '</xs:simpleType>\n'
@@ -388,7 +406,7 @@ def xdstring(data):
     xdstr += padding.rjust(indent) + '<xs:complexType name="mc-' + mcID + '">\n'
     xdstr += padding.rjust(indent + 2) + '<xs:annotation>\n'
     xdstr += padding.rjust(indent + 4) + '<xs:documentation>\n'
-    xdstr += padding.rjust(indent + 6) + 'This is the String model component used to model text.\n'
+    xdstr += padding.rjust(indent + 6) + data[9].strip() + '\n'
     xdstr += padding.rjust(indent + 4) + '</xs:documentation>\n'
     xdstr += padding.rjust(indent + 4) + '<xs:appinfo>\n'
 
@@ -510,7 +528,7 @@ def xdtemporal(data):
     xdstr += padding.rjust(indent) + '<xs:complexType name="mc-' + mcID + '">\n'
     xdstr += padding.rjust(indent + 2) + '<xs:annotation>\n'
     xdstr += padding.rjust(indent + 4) + '<xs:documentation>\n'
-    xdstr += padding.rjust(indent + 6) + 'This is the Temporal model component used to model dates, times or datetimes.\n'
+    xdstr += padding.rjust(indent + 6) + data[9].strip() + '\n'
     xdstr += padding.rjust(indent + 4) + '</xs:documentation>\n'
     
     xdstr += padding.rjust(indent + 4) + '<xs:appinfo>\n'
@@ -568,7 +586,7 @@ def units(mcID, data):
     xdstr = padding.rjust(indent) + '<xs:complexType name="mc-' + mcID + '">\n'
     xdstr += padding.rjust(indent + 2) + '<xs:annotation>\n'
     xdstr += padding.rjust(indent + 4) + '<xs:documentation>\n'
-    xdstr += padding.rjust(indent + 6) + 'This is the String model component used to define Units values for Counts and Quantities.\n'
+    xdstr += padding.rjust(indent + 6) + 'Unit constraint for: ' + data[9].strip() + '\n'
     xdstr += padding.rjust(indent + 4) + '</xs:documentation>\n'
     xdstr += padding.rjust(indent + 4) + '<xs:appinfo>\n'
     xdstr += padding.rjust(indent + 6) + '<rdfs:Class rdf:about="mc-' + mcID + '">\n'

diff --git a/kunteksto/recordedit.py b/kunteksto/recordedit.py
@@ -87,6 +87,8 @@ class EntryWindow(tk.Frame):
         self.def_txt_value = tk.StringVar(value=self.records[self.recndx][12])
         self.def_num_value = tk.StringVar(value=self.validnum(self.records[self.recndx][13]))
         self.units = tk.StringVar(value=self.records[self.recndx][14])
+        self.min_exc_val = tk.StringVar(value=self.validnum(self.records[self.recndx][17]))
+        self.max_exc_val = tk.StringVar(value=self.validnum(self.records[self.recndx][18]))
 
         # Add a label and entry box for each column in table.
         
@@ -115,27 +117,33 @@ class EntryWindow(tk.Frame):
         tk.Label(self, text='Maximum Inclusive Value').grid(row=7, column=0, pady=1, sticky=E)
         self.max_inc_val_entry = tk.Entry(self, textvariable=self.max_inc_val, width=50).grid(row=7, column=1, pady=1, padx=5)
         
-        tk.Label(self, text='Description').grid(row=8, column=0, pady=1, sticky=E)
+        tk.Label(self, text='Minimum Exclusive Value').grid(row=8, column=0, pady=1, sticky=E)
+        self.min_exc_val_entry = tk.Entry(self, textvariable=self.min_exc_val, width=50).grid(row=8, column=1, pady=1, padx=5)
+    
+        tk.Label(self, text='Maximum Exclusive Value').grid(row=9, column=0, pady=1, sticky=E)
+        self.max_exc_val_entry = tk.Entry(self, textvariable=self.max_exc_val, width=50).grid(row=9, column=1, pady=1, padx=5)
+
+        tk.Label(self, text='Description').grid(row=10, column=0, pady=1, sticky=E)
         self.description_entry = tk.Text(self, height=5, width=50)
         self.description_entry.insert(END, self.description.get())
-        self.description_entry.grid(row=8, column=1, pady=1, padx=5)
+        self.description_entry.grid(row=10, column=1, pady=1, padx=5)
         
-        tk.Label(self, text='Defining URL').grid(row=9, column=0, pady=1, sticky=E)
-        self.definition_url_entry = tk.Entry(self, textvariable=self.definition_url, width=50).grid(row=9, column=1, pady=1, padx=5)
+        tk.Label(self, text='Defining URL').grid(row=11, column=0, pady=1, sticky=E)
+        self.definition_url_entry = tk.Entry(self, textvariable=self.definition_url, width=50).grid(row=11, column=1, pady=1, padx=5)
         
-        tk.Label(self, text='Predicates & Objects').grid(row=10, column=0, pady=1, sticky=E)
+        tk.Label(self, text='Predicates & Objects').grid(row=12, column=0, pady=1, sticky=E)
         self.pred_obj_list_entry = tk.Text(self, height=5, width=50)
         self.pred_obj_list_entry.insert(END, self.pred_obj_list.get())
-        self.pred_obj_list_entry.grid(row=10, column=1, pady=1, padx=5)
+        self.pred_obj_list_entry.grid(row=12, column=1, pady=1, padx=5)
         
-        tk.Label(self, text='Default Text Value').grid(row=11, column=0, pady=1, sticky=E)
-        self.def_txt_value_entry = tk.Entry(self, textvariable=self.def_txt_value, width=50).grid(row=11, column=1, pady=1, padx=5)
+        tk.Label(self, text='Default Text Value').grid(row=13, column=0, pady=1, sticky=E)
+        self.def_txt_value_entry = tk.Entry(self, textvariable=self.def_txt_value, width=50).grid(row=13, column=1, pady=1, padx=5)
         
-        tk.Label(self, text='Default Numeric Value').grid(row=12, column=0, pady=1, sticky=E)
-        self.def_num_value_entry = tk.Entry(self, textvariable=self.def_num_value, width=50).grid(row=12, column=1, pady=1, padx=5)
+        tk.Label(self, text='Default Numeric Value').grid(row=14, column=0, pady=1, sticky=E)
+        self.def_num_value_entry = tk.Entry(self, textvariable=self.def_num_value, width=50).grid(row=14, column=1, pady=1, padx=5)
         
-        tk.Label(self, text='Units').grid(row=13, column=0, pady=1, sticky=E)
-        self.units_entry = tk.Entry(self, textvariable=self.units, width=50).grid(row=13, column=1, pady=1, padx=5)
+        tk.Label(self, text='Units').grid(row=15, column=0, pady=1, sticky=E)
+        self.units_entry = tk.Entry(self, textvariable=self.units, width=50).grid(row=15, column=1, pady=1, padx=5)
         
         # Add buttons to navigate database.(
         previous_button = tk.Button(self, text='Previous', width=8, command=self.prev_rec)
@@ -165,6 +173,8 @@ class EntryWindow(tk.Frame):
         self.def_txt_value.set(self.records[self.recndx][12])
         self.def_num_value.set(self.validnum(self.records[self.recndx][13]))
         self.units.set(self.records[self.recndx][14])
+        self.min_exc_val.set(self.validnum(self.records[self.recndx][17]))
+        self.max_exc_val.set(self.validnum(self.records[self.recndx][18]))
         
 
     def prev_rec(self):
@@ -200,9 +210,11 @@ class EntryWindow(tk.Frame):
         updates.append(self.def_txt_value.get())
         updates.append(self.def_num_value.get())
         updates.append(self.units.get())
+        updates.append(self.min_exc_val.get())
+        updates.append(self.max_exc_val.get())
         
         # Build the SQL statement
-        stmnt = ('UPDATE record SET label = ?, datatype = ?, min_len = ?, max_len = ?, choices = ?, regex = ?, min_inc_val = ?, max_inc_val = ?, description = ?, definition_url = ?, pred_obj_list = ?, def_txt_value = ?, def_num_value =?, units = ? WHERE header = "{0}"'.format(self.header))
+        stmnt = ('UPDATE record SET label = ?, datatype = ?, min_len = ?, max_len = ?, choices = ?, regex = ?, min_inc_val = ?, max_inc_val = ?, description = ?, definition_url = ?, pred_obj_list = ?, def_txt_value = ?, def_num_value =?, units = ?, min_exc_val = ?, max_exc_val = ? WHERE header = "{0}"'.format(self.header))
         with sqlite3.connect(self.database) as conn:
             c = conn.cursor()
             c.execute(stmnt, updates)
@@ -223,5 +235,7 @@ class EntryWindow(tk.Frame):
             self.records[self.recndx][12] = self.def_txt_value.get()
             self.records[self.recndx][13] = self.def_num_value.get()
             self.records[self.recndx][14] = self.units.get()
+            self.records[self.recndx][7] = self.min_exc_val.get()
+            self.records[self.recndx][8] = self.max_exc_val.get()
             
             messagebox.showinfo(self.database, "Record Saved")

diff --git a/kunteksto/analyze.py b/kunteksto/analyze.py
@@ -31,6 +31,8 @@ record table:
 14 - units = CHAR(50)
 15 - mcid = CHAR(40)
 16 - adid = CHAR(40)
+17 - min_exc_val = char(100)
+18 - max_exc_val = char(100)
 
 """
 import sys
@@ -48,7 +50,7 @@ from subprocess import run
 import click
 
 def checkType(h, dataDict):
-    """ test each data item from a column. if one is not a type, turn off that type."""
+    """ test each data item from a column. if one is not a type, turn off that type. If the type is an int or a float then the min/max is set as inclusive. Exclusive is never set."""
     dlist = dataDict[h]
     is_int = False
     is_float = False
@@ -134,7 +136,7 @@ def analyze(csvInput, delim, level, out_dir):
     conn = sqlite3.connect(db_file)
     c = conn.cursor()
     c.execute("""CREATE TABLE "model" ("title" CHAR(250), "description" TEXT, "copyright" CHAR(250), "author" CHAR(250), "definition_url" CHAR(500), "dmid" CHAR(40), "entryid" CHAR(40), "dataid" CHAR(40))""")
-    c.execute("""CREATE TABLE "record"  (header  char(100), label char(250), datatype char(10), min_len char(100), max_len char(100), "choices" TEXT, "regex" CHAR(250), "min_inc_val" char(100), "max_inc_val" char(100), "description" TEXT, "definition_url" CHAR(500), "pred_obj_list" TEXT, "def_txt_value" TEXT, "def_num_value" char(100), "units" CHAR(50), "mcid" CHAR(40), "adid" CHAR(40))""")
+    c.execute("""CREATE TABLE "record"  (header  char(100), label char(250), datatype char(10), min_len char(100), max_len char(100), "choices" TEXT, "regex" CHAR(250), "min_inc_val" char(100), "max_inc_val" char(100), "description" TEXT, "definition_url" CHAR(500), "pred_obj_list" TEXT, "def_txt_value" TEXT, "def_num_value" char(100), "units" CHAR(50), "mcid" CHAR(40), "adid" CHAR(40), "min_exc_val" char(100), "max_exc_val" char(100))""")
     c.execute("""CREATE INDEX header_idx on record (header)""")
     
     # create the initial data for the record table.
@@ -145,11 +147,11 @@ def analyze(csvInput, delim, level, out_dir):
             mcID = str(uuid4())  # model component
             adID = str(uuid4())   # adapter
             label = 'The ' + h.replace('_', ' ')
-            data.append((h, label, 'String', '', '', '', '', '', '', '', '', '', '', '', '', mcID, adID))
+            data.append((h, label, 'String', '', '', '', '', '', '', '', '', '', '', '', '', mcID, adID,'',''))
 
     c = conn.cursor()
     c.executemany(
-        "INSERT INTO record VALUES (?,?,?,?,?,?,?,?,?,?,?,?,?,?,?,?,?)", data)
+        "INSERT INTO record VALUES (?,?,?,?,?,?,?,?,?,?,?,?,?,?,?,?,?,?,?)", data)
     conn.commit()
 
     # create the initial data for the model table

diff --git a/docs_source/source/start.rst b/docs_source/source/start.rst
@@ -169,13 +169,17 @@ Edit these columns (see :ref:`semantics`) :
 
         .. warning::
             The decimal separator throughout Kunteksto is a period, do not use a comma. Do not use thousands separators.
-            
+            Also, if you mix min/max inclusive or exclusive in an illogical manner, they system will take the inclusive value and ignore the exclusive value.
     
-    - *Minimum Value* enter the minimum value restriction for **Integer or Decimal** columns.
+    - *Minimum Inclusive Value* enter the minimum inclusive value restriction for **Integer or Decimal** columns.
     
-    - *Maximum Value* enter the maximum value restriction for **Integer or Decimal** columns.	
+    - *Maximum Inclusive Value* enter the maximum inclusive value restriction for **Integer or Decimal** columns.	
     
-    - *Values Inclusive?* for **Integer or Decimal** columns, are the minimum and maximum values inclusive in the valid values range. Enter a '1' for yes or a '0' for no.
+    - *Minimum Exclusive Value* enter the minimum exclusive value restriction for **Integer or Decimal** columns.
+    
+    - *Maximum Exclusive Value* enter the maximum exclusive value restriction for **Integer or Decimal** columns.   
+    
+    - *Description* for all columns enter a textual description that might be used for human readable documentation.
     
     - *Defining URL* enter a URL (or at least a URI) to a vocabulary or ontology or a webpage that describes or defines the meaning of the data in this column.
     
